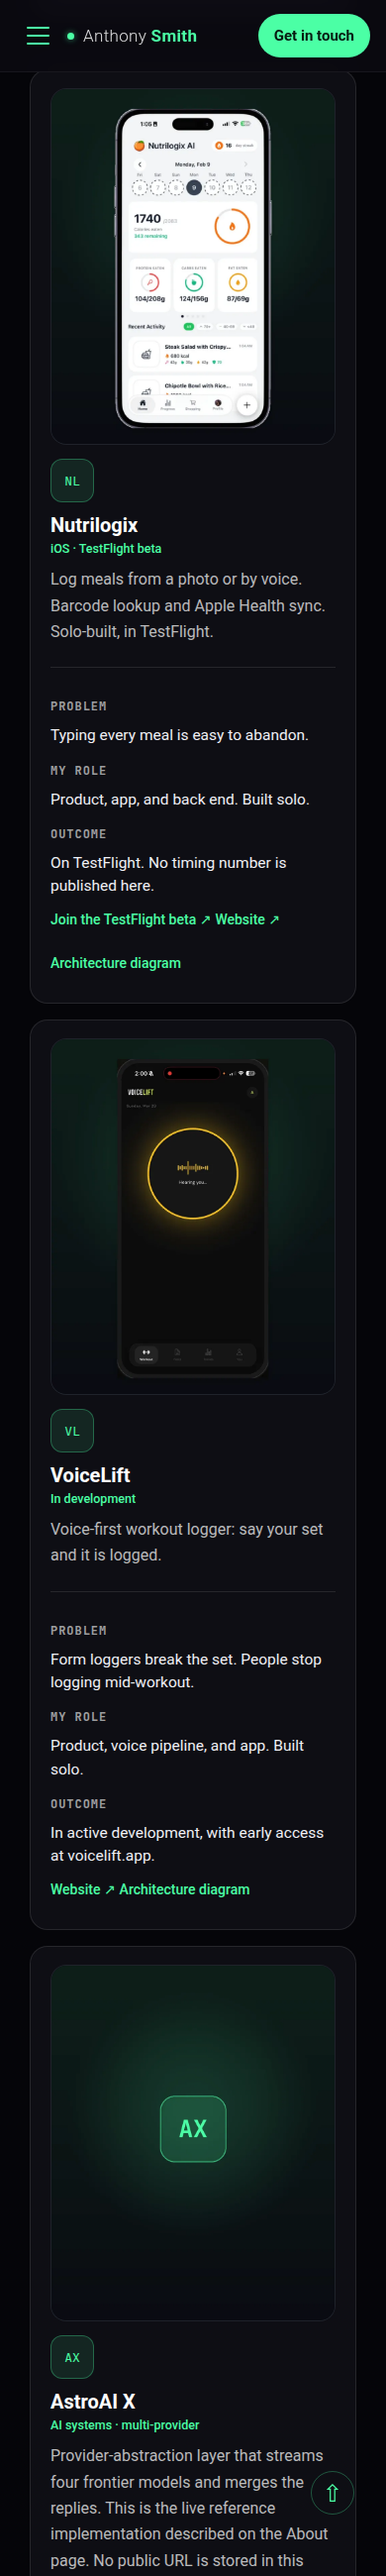
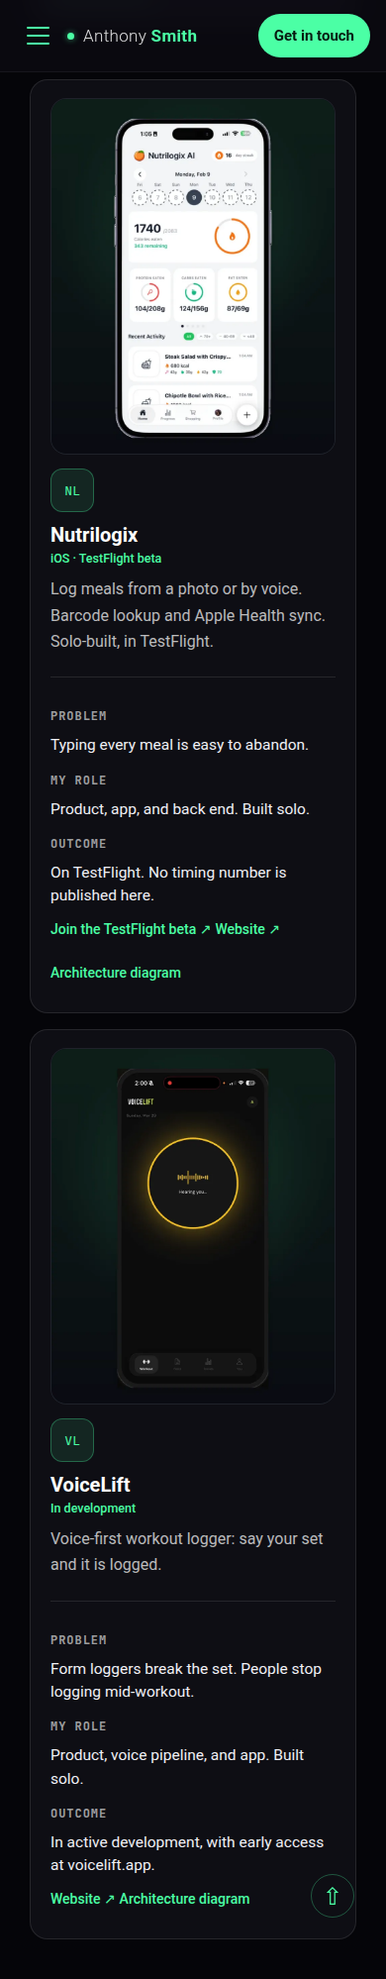
Remove the AstroAI X project card.
The selected-work row is now Nutrilogix and VoiceLift in two columns, and the placeholder image is gone.

diff --git a/portfolio.html b/portfolio.html
@@ -24,7 +24,7 @@
 	<!-- Meta -->
 	<meta charset="UTF-8">
 	<meta name="viewport" content="width=device-width, initial-scale=1, maximum-scale=1" />
-	<meta name="description" content="Selected work by Anthony Smith — CastLog, Nutrilogix, VoiceLift, and AstroAI X. React Native apps, on-device and multi-provider AI, and API security writing." />
+	<meta name="description" content="Selected work by Anthony Smith — CastLog, Nutrilogix, and VoiceLift. React Native apps, on-device and multi-provider AI, and API security writing." />
 	<meta name="keywords" content="anthony smith portfolio, react native projects, ai apps, full stack projects, senior engineer portfolio" />
 	<meta name="author" content="Anthony Smith" />
 	<meta name="robots" content="index, follow">
@@ -322,25 +322,6 @@
 									</dl>
 									<a class="row-link" href="https://voicelift.app/" target="_blank" rel="noopener">Website ↗</a>
 									<a class="row-link" href="images/diagrams/voicelift-arch.svg">Architecture diagram</a>
-								</article>
-
-								<article class="case-row" id="astroai-x">
-									<figure class="case-media">
-										<img src="images/projects/astroai-x.webp" width="840" height="1050" alt="AstroAI X initials on a green gradient. No public site is linked for this project, so this panel is a placeholder." loading="lazy" decoding="async" />
-									</figure>
-									<div class="mark" aria-hidden="true">AX</div>
-									<h3>AstroAI X</h3>
-									<div class="st">AI systems · multi-provider</div>
-									<p>Provider-abstraction layer that streams four frontier models and merges the replies. This is the live reference implementation described on the About page. No public URL is stored in this repo.</p>
-									<dl class="case-dl">
-										<dt>Problem</dt>
-										<dd>Each model provider uses a different request, stream, and tool-call shape.</dd>
-										<dt>My role</dt>
-										<dd>The abstraction layer and the reference app, as described in the decision record.</dd>
-										<dt>Outcome</dt>
-										<dd>One canonical conversation is replayed into each provider. No measured usage number is published here.</dd>
-									</dl>
-									<a class="row-link" href="about.html#adr-astroai">Read the decision record →</a>
 								</article>
 							</div>
 

diff --git a/css/review-fixes.css b/css/review-fixes.css
@@ -392,7 +392,7 @@
 .case-rows {
 	margin-top: 20px;
 	display: grid;
-	grid-template-columns: repeat(3, minmax(0, 1fr));
+	grid-template-columns: repeat(2, minmax(0, 1fr));
 	gap: 16px;
 }
 .case-row {
